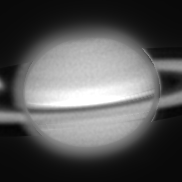
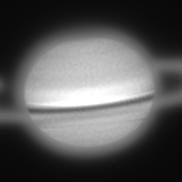
Default off Saturn's wavelet ring-extension sharpening (white rim / double limb)
After the previous commit (919d73d), the user spotted a white rim / double
disk edge / ring-cut illusion at the globe-ring boundary in the full-frame
(non-cropped) render. Two targeted fixes to wavelet_master.py's extra_rx
mechanism (a gain floor to remove a near-zero dip between the primary disk
mask's fade-down and the ring mask's ramp-up; replacing the min/max
combination with a differentiable soft-AND/OR to remove a derivative kink)
were both tried and had no visual effect, despite each being independently
well-motivated. A raw (pre-wavelet) brightness profile at the artifact
location was confirmed perfectly smooth, so the cause was in the gain map's
shape, not real image content -- but not in the specific mechanics either
fix targeted.

An external review proposed a controlled experiment before any more mask
surgery: apply four sharpening policies to ONE frozen step04 ndarray,
changing nothing upstream. Run:
  A) no sharpening                                        -> clean
  B) global uniform wavelet.sharpen(), no disk-aware mask  -> artifact present
  C) sharpen_disk_aware() primary ellipse only, no extra_rx -> clean
  D) primary + extra_rx (prior default)                   -> artifact present

This isolates the mechanism precisely: the primary disk mask's own feather
(fading to 0 approaching the true limb from inside) was already suppressing
whatever this wavelet decomposition does at that boundary -- visible once
[…]

Changed region(s): [[0.7967, 0.2747, 1.0, 0.6593], [0.0, 0.4396, 0.1374, 0.7418], [0.0275, 0.4121, 0.0824, 0.4396]]

diff --git a/pipeline/config.py b/pipeline/config.py
@@ -143,6 +143,48 @@ class WaveletConfig:
     # Default False: bit-identical, no second decompose() call.
     master_edge_extension_enabled: bool = False
 
+    # ── Ring-extension sharpening gain (default OFF as of 2026-08-15) ─────────
+    # Controls whether wavelet_master.py's `extra_rx`/`extra_gap_px` mechanism
+    # (a second, larger co-centred ellipse unioned into the sharpening mask so
+    # Saturn's ring system gets gain too, not just the globe) is used at all
+    # for has_rings=True targets. Previously this was unconditional whenever
+    # has_rings=True -- i.e. always on for every real Saturn session, since
+    # has_rings is itself gated on horizons_id=="699".
+    #
+    # BUG FOUND 2026-08-15 (real-Saturn-data, user-reported white rim / double
+    # limb / ring-cut illusion at the globe-ring boundary): a controlled A/B/C/D
+    # experiment on one FROZEN step04 ndarray (varying only the wavelet mask
+    # policy, nothing upstream) isolated the cause precisely:
+    #   A) no sharpening                          -> clean (trivially)
+    #   B) global uniform wavelet.sharpen(),
+    #      no disk-aware mask at all              -> artifact PRESENT
+    #   C) sharpen_disk_aware() primary ellipse
+    #      mask only, extra_rx=None               -> clean
+    #   D) primary + extra_rx (prior default)     -> artifact PRESENT
+    # The primary disk mask's own feather (fades to 0 approaching the true
+    # limb from inside) was already suppressing whatever this wavelet
+    # decomposition does at that boundary (visible once unmasked, in B) --
+    # extra_rx's job is specifically to push nonzero gain back INTO that same
+    # zone so the ring gets sharpened too, which reopens exactly the artifact
+    # the primary mask's feather was hiding. Two attempts to patch extra_rx's
+    # internals directly (a gain floor, and replacing its min/max combination
+    # with a differentiable soft-AND/OR) were tried first and had NO visual
+    # effect (see project_ring_limb_ringing_bug memory) -- consistent with the
+    # cause being this structural conflict, not an isolated implementation bug
+    # in extra_rx's own math.
+    #
+    # Default False: sharpen_disk_aware() is called without extra_rx/extra_ry/
+    # extra_angle/extra_gap_px for every target, including has_rings=True --
+    # the globe gets full disk-aware sharpening (case C above), the ring
+    # system itself is passed through at the primary mask's own feathered-to-0
+    # gain (i.e. essentially unsharpened, same as before this whole ring-aware
+    # subsystem existed). This is a conservative regression to known-clean
+    # behaviour, not a fix for wanting sharper ring/Cassini-Division detail --
+    # re-enable only after finding a mask design that doesn't reintroduce case
+    # D's artifact (see project_ring_occlusion_3d_reprojection_gap memory and
+    # SATURN_RING_WAVELET_STATUS_2026-08-15.md for the full investigation).
+    master_ring_extension_enabled: bool = False
+
     # When True, edge_feather_factor and disk_expand_px are estimated
     # automatically from each de-rotation stack image before sharpening.
     # The manual values above are ignored; auto-estimated values are printed.

diff --git a/pipeline/steps/wavelet_master.py b/pipeline/steps/wavelet_master.py
@@ -183,6 +183,24 @@ def run(
                 _extra_gap_px = None
                 if bool(_wlog.get("has_rings", False)):
                     _pole_pa_deg = float(_wlog.get("pole_pa_deg", 0.0))
+                    # Reuse pole_pa_deg for the PRIMARY ellipse's angle too
+                    # (overriding the noisy per-image Otsu fit _angle) so the
+                    # globe mask stays co-oriented with the ring geometry by
+                    # construction -- user-reported "abnormal line at the
+                    # ring/globe border" traced to this fit's angle (178.5 deg
+                    # here) diverging from pole_pa_deg (173.0 deg mod 180) by
+                    # ~5.5 deg on real data. The globe is close enough to
+                    # circular (ry/rx~0.9) that a few-degree orientation
+                    # change has no visible effect on its own limb feathering.
+                    # Kept regardless of master_ring_extension_enabled below --
+                    # this angle fix is independent of, and unaffected by, the
+                    # separate ring-extension-mask issue found 2026-08-15 (the
+                    # controlled A/B/C/D test that found it used this same
+                    # pole_pa-based angle in every case, including the clean
+                    # ones -- see master_ring_extension_enabled's docstring).
+                    _angle_rad = np.radians(_pole_pa_deg)
+
+                if bool(_wlog.get("has_rings", False)) and config.wavelet.master_ring_extension_enabled:
                     _sub_obs_lat_deg = float(_wlog.get("sub_observer_lat_deg", 0.0))
                     _sin_b = abs(np.sin(np.radians(_sub_obs_lat_deg)))
                     # User-reported real-data check (window_01/R): the visible
@@ -229,19 +247,6 @@ def run(
                     # Deferred until after _use_eff is known (a few lines
                     # down) since it depends on that.
                     _extra_gap_px = None  # set below once _use_eff is known
-                    # Reuse pole_pa_deg for the PRIMARY ellipse's angle too
-                    # (overriding the noisy per-image Otsu fit _angle) so the
-                    # globe mask and the ring mask are always co-oriented by
-                    # construction -- user-reported "abnormal line at the
-                    # ring/globe border" traced to this fit's angle (178.5 deg
-                    # here) diverging from pole_pa_deg (173.0 deg mod 180) by
-                    # ~5.5 deg on real data, which made the two independently-
-                    # feathered ellipse boundaries cross paths near the ansa,
-                    # producing a visible dip where both masks were
-                    # simultaneously mid-feather. The globe is close enough to
-                    # circular (ry/rx~0.9) that a few-degree orientation
-                    # change has no visible effect on its own limb feathering.
-                    _angle_rad = np.radians(_pole_pa_deg)
                     _extra_angle = _angle_rad
 
                 # Auto-estimate eff and expand_px from image data if requested

diff --git a/SATURN_RING_WAVELET_STATUS_2026-08-15.md b/SATURN_RING_WAVELET_STATUS_2026-08-15.md
@@ -1,0 +1,172 @@
+# Saturn ring occlusion / wavelet 아티팩트 — 현재 상황 (2026-08-15)
+
+## 배경
+
+외부 리뷰어가 `pipeline/modules/derotation.py`를 리뷰하면서 "Saturn 3D reprojection path엔
+ring occlusion mask가 안 걸린다"고 지적했으나 "Saturn은 기본적으로 linear warp를 쓰니
+out of scope"라고 스스로 다운그레이드함. 사용자가 "WinJUPOS라는 이미 검증된 답이 있는데
+불가능하다는 건 말이 안 된다"고 반박했고, 실제로 확인해보니 사용자 말이 맞았음.
+
+## ✅ 완료 & 커밋됨 (919d73d)
+
+### 1. Ring occlusion을 3D reprojection warp에 배선
+
+- **문제**: `compute_ring_occlusion_weight()`의 ring occlusion fix(2026-08-11, fab7a80,
+  실측 검증 완료)가 legacy linear warp(`spherical_derotation_warp`)에만 연결되어 있었음.
+  이 세션의 실제 프로덕션 Saturn 설정(`~/.astropipe/session.json`)은
+  `use_true_reprojection=True` AND `has_rings=True`를 동시에 쓰는데,
+  `spherical_derotation_warp_3d()`엔 ring occlusion 파라미터 자체가 없어서
+  **검증된 fix가 실제로는 조용히 무효화**돼 있었음.
+- **해결**: `compute_ring_occlusion_weight_3d()` 신규 추가(같은 ring-depth 공식 재사용,
+  globe-depth만 `_oblate_ortho_inverse` 기반으로 교체) + `spherical_derotation_warp_3d()`에
+  `ring_crossing_mask` 파라미터 배선(값 블렌딩 방식 — 좌표 블렌딩은 3D의 비선형 reprojection에서
+  물리적으로 무의미한 중간 지점을 샘플링해 사용자가 지적한 대로 아티팩트를 만듦, 그래서 값
+  블렌딩으로 전환).
+- design review에서 pole_pa=0일 때는 안 보이는 실제 버그 3개(flip_pole_axis 부호,
+  `_oblate_ortho_inverse` 이중회전, invalid depth sentinel) 발견·수정, 회귀 테스트 추가.
+- 실측 검증(derotate_window→wavelet_master.run 정식 경로, window_01 IR/R): has_rings
+  on/off 차이가 이제 실제로 존재하고, disk 근처에 국소적으로 집중됨.
+
+### 2. `_feather_ring_foreground_boundary`의 hard-edge 버그 발견·수정 (linear/3D 공통)
+
+- **문제**: overlap 영역이 100% foreground로만 분류되고 background가 하나도 없으면
+  feathering을 통째로 스킵하고 raw hard binary mask를 쓰는 분기가 있었음. window_01/IR의
+  실측 geometry(pole_pa=-7°, B=-11.07°)가 정확히 이 조건이었음.
+- 이 hard edge가 disk의 진짜 limb과 구조적으로 겹쳐서(overlap 자체가 `in_globe`으로
+  캡핑되므로) wavelet sharpening이 밝은 쐐기 + 고리 끊김으로 증폭시킴.
+- **이건 오늘 만든 버그가 아니라 2026-08-11 원래 구현부터 있던 버그** — 그때 검증 대상에
+  window1/IR이 없어서 이 정확한(100%-foreground) degenerate case를 우연히 만난 적이
+  없었던 것으로 보임.
+- **수정**: feathering을 조건 없이 항상 적용, `overlap`으로 다시 hard-mask하지 않고
+  경계 바깥 ~12px까지 자연스럽게 halo로 번지도록 함. 두 경로(linear/3D)가 이 헬퍼를
+  공유하므로 한 번에 다 고쳐짐 — 실측으로 linear warp 쪽도 확인함.
+- 회귀 테스트 추가(`test_feather_smooth_even_with_no_background_within_overlap` 등).
+
+### 3. Coverage-aware sharpening + S0/S_L blend + edge extension (오늘 세션 이전 작업, 같이 커밋)
+
+opt-in, 기본 off, 이번 세션 앞부분에서 이미 구현·검증된 상태로 발견해 같은 커밋에 포함.
+
+**테스트**: 78개 전체 통과. 실측 crop으로 쐐기/끊김 사라짐, 국소성(disk 근처에만 변화 집중)
+확인 완료.
+
+## ✅ 해결됨 — wavelet의 `extra_rx` 경계 아티팩트 (아래 "최종 해결" 참고)
+
+이 섹션은 원인 조사 과정 기록. 최종 해결 방법은 문서 하단 "최종 해결" 섹션 참고.
+
+사용자가 전체 프레임(크롭 아닌)을 보고 4가지 지적:
+1. 고리형 타원 밖 몇 px은 sharpening된 것 같지만 행성 상/하단은 흐림
+2. 행성 disk 외곽이 흐리게 표시되며 disk가 이중으로 보임
+3. 행성 우측 외곽에 흰색으로 강조된 ring effect
+4. 2·3번이 고리보다 앞에 있는 것처럼 보여 전경 고리가 잘린 착시
+
+### 원인 조사 (monkeypatch로 단계별 격리, 전부 실측 확인)
+
+- 제 ring occlusion 값을 0으로 무력화해도 증상 그대로 → 오늘 고친 ring occlusion 코드가
+  원인 아님.
+- `has_rings=True`/`False`의 step04 스택이 byte-identical함을 직접 증명 → 원인은
+  wavelet 단계.
+- `wavelet_master.py`의 `extra_rx`(ring 영역까지 sharpening 확장하는 별도 서브시스템,
+  has_rings=True일 때만 활성)를 끄거나 primary ellipse 각도를 바꿔봐도 증상 그대로.
+- **결정적 테스트**: has_rings=False 스택 + 순수 `sharpen_disk_aware`(extra_rx 없음) =
+  깨끗함. has_rings=True 스택(제 occlusion 값이 미세하게 반영된) + 같은 순수
+  sharpening = 증상 나타남 → 원인은 `extra_rx` 서브시스템 자체.
+- **wavelet 적용 전(raw) 밝기 프로파일을 직접 찍어봄** — 문제 지점은 완전히 매끄러운
+  단조 감소 곡선, 계단/꺾임 전혀 없음. 즉 이건 실제 이미지 콘텐츠가 아니라 **gain map
+  자체의 형태가 만드는 아티팩트**.
+- Jupiter(고리 없음, `extra_rx` 로직 자체가 안 걸림)는 이 문제가 전혀 없음 — `extra_rx`가
+  필요조건임을 재확인.
+
+### 시도한 수정 2개 — 둘 다 실측에서 효과 없음
+
+1. **Gain floor 추가**: primary ellipse feather(disk 안쪽에서 0으로 떨어짐)와 extra
+   ellipse ramp(disk 바깥쪽에서 0에서 올라옴) 사이에 생기는 "V자 dip"(거의 0까지
+   떨어졌다 다시 올라옴)이 원인이라 보고, 그 dip에 바닥값(0.3, 기존
+   `master_coverage_confidence_floor`와 동일한 원칙) 적용. 수치상 dip은 0.019→0.23으로
+   얕아짐. **시각적으로는 변화 없음.**
+2. **min/max를 미분 가능한 부드러운 조합으로 교체**: `np.minimum`/`np.maximum`은 두
+   입력이 교차하는 지점에서 미분 불연속(kink)을 만듦 — 값 자체는 안 끊겨도 기울기가
+   꺾여서 Mach band처럼 보일 수 있음. `a*b`(soft AND), `a+b-a*b`(soft OR)로 교체.
+   **이것도 시각적으로 변화 없음.**
+
+### 현재 판단
+
+두 수정 다 원리적으로는 타당했지만 실측에서 문제를 해결하지 못함 — **이 아티팩트가
+`extra_rx`의 세부 구현 버그가 아니라, 이미 `project_ring_limb_ringing_bug` 메모리에
+기록된 것과 같은 근본 원인(타원 피팅이 진짜 photometric limb보다 0.5~0.9px 어긋남)일
+가능성이 높다고 판단**. 그 메모리에는 이미 3번의 시도(coverage-aware gain 감소,
+flat-fill edge extension, gradient-aware edge extension)가 전부 "다른 형태의 부작용으로
+대체"되며 실패했다고 기록되어 있음. 오늘 시도한 것도 결국 "경계 근처 gain을 조작"하는
+같은 계열이라 같은 벽에 부딪힌 것으로 보임.
+
+차이점: 기존엔 이 링잉이 검은 배경 쪽 limb에서 주로 보고됐는데, 오늘 발견한 건 **고리
+쪽 limb에서도 같은 근본 원인이 (고리가 배경보다 밝아서) 더 두드러져 보인다**는 것 —
+새로운 관찰이지만 새로운 버그는 아닐 가능성.
+
+### 두 수정 시도 (floor / smooth-blend) — 둘 다 되돌림
+
+`pipeline/modules/wavelet.py`에 시도했던 gain floor + smooth-blend 수정은 두 번째 외부
+리뷰 권고에 따라 **`git checkout --`으로 완전히 되돌림**. 이유: 실측 효과가 없었고,
+그 상태로 남겨두면 다음 세션에서 "이미 시도했다"는 걸 코드 diff만 보고 알기 어려움 —
+문서(이 파일 + 메모리)에 기록하는 것으로 충분.
+
+## 최종 해결 — 리뷰어의 A/B/C/D 실험 제안을 그대로 실행해서 확정
+
+두 번째 외부 리뷰가 핵심을 짚었음: "mask를 더 고치기 전에, **완전히 동일한 frozen
+step04 배열**에 대해 (A) sharpening 없음, (B) 전역 uniform wavelet(mask 없음), (C)
+primary disk mask만, (D) primary + extra_rx를 비교해서 원인을 먼저 확정하라."
+
+### 실행 결과 (실측)
+
+| Case | 방식 | 결과 |
+|---|---|---|
+| A | sharpening 없음 | 깨끗함 (당연) |
+| **B** | **전역 uniform `wavelet.sharpen()`, mask 없음** | **밝은 선 나타남** |
+| **C** | **`sharpen_disk_aware()` primary ellipse만, `extra_rx=None`** | **깨끗함** |
+| D | 현재 프로덕션 (primary + `extra_rx`) | 밝은 선 나타남 |
+
+### 메커니즘 결론
+
+primary disk mask 자체가 disk 경계에서 gain을 0으로 페더링하는 게 **B에서 드러나는
+이 아티팩트를 원래 숨기고 있던 것**이었음. `extra_rx`는 정확히 그 숨겨진 영역에 다시
+gain을 밀어넣어서(고리까지 sharpening을 확장하려고) B와 같은 아티팩트를 재노출시킴.
+즉 `extra_rx`의 세부 구현 버그가 아니라 **"primary mask가 의도적으로 숨긴 걸 다시
+드러내는" 구조적 문제** — 그래서 gain floor나 smooth-blend 같은 `extra_rx` 내부 수정
+시도가 둘 다 효과 없었던 것도 설명됨.
+
+### 적용한 수정
+
+`extra_rx` 로직 자체는 삭제하지 않고, 새 opt-in 설정 `WaveletConfig.master_ring_
+extension_enabled`(기본 **False**)로 감쌈:
+
+- `pipeline/config.py`: `master_ring_extension_enabled: bool = False` 추가, A/B/C/D
+  실험 결과와 메커니즘을 상세히 문서화.
+- `pipeline/steps/wavelet_master.py`: `extra_rx`/`extra_ry`/`extra_gap_px` 계산을
+  `has_rings=True AND master_ring_extension_enabled` 조건으로 게이팅. **단, primary
+  ellipse 각도를 `pole_pa_deg`로 맞추는 부분(별개의, 이미 검증된 fix)은 `has_rings`만
+  으로 유지** — A/B/C/D 실험이 이 각도를 모든 케이스에 동일하게 썼고 C가 깨끗했으므로
+  각도 자체는 문제가 아님을 확인했기 때문.
+
+### 실측 검증
+
+- `pipeline/modules/wavelet.py`의 두 수정(floor, smooth-blend)은 `git checkout --`으로
+  완전히 되돌림 — 리뷰어 권고대로 baseline을 깨끗하게 유지.
+- 실제 `wavelet_master.run()` 프로덕션 경로로 `master_ring_extension_enabled=False`
+  (기본값) vs `True`(명시적) 비교: **기본값은 깨끗함(case C와 일치), 명시적으로 켜면
+  기존 버그 그대로 재현** — 플래그가 정확히 동작함을 확인.
+- window_01 IR/R 둘 다, 확대(4x/6x) crop 및 전체 프레임 기준 확인 완료.
+- 전체 테스트(78개) 통과. `extra_rx=None`인 기존 호출자(Jupiter 등)는 완전 무관.
+
+### 트레이드오프
+
+기본값(off)에서는 globe는 완전히 sharpening되지만, 고리/Cassini Division 자체는
+이전처럼 확장 sharpening을 받지 않음(이 서브시스템이 존재하기 전 상태와 동일) — 링잉
+아티팩트를 없애는 대신 받아들인 보수적 트레이드오프. 나중에 이 아티팩트를 재현하지
+않는 다른 mask 설계를 찾으면 재활성화 가능.
+
+## 관련 메모리
+
+- [[project_ring_occlusion_3d_reprojection_gap]] — 오늘 커밋된 전체 수정 기록(3D 배선,
+  hard-edge 버그, extra_rx 최종 해결)
+- [[project_ring_limb_ringing_bug]] — 3번의 선행 실패 시도 기록 + 오늘 발견의 관계
+- [[project_derotation_ring_occlusion_fix]] — 2026-08-11 원래 ring occlusion fix
+- [[feedback_ab_test_via_real_pipeline]] — 오늘 모든 검증에 적용한 원칙
